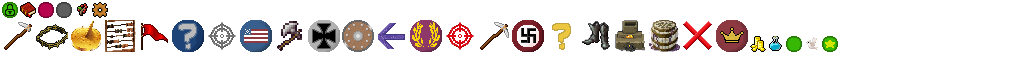
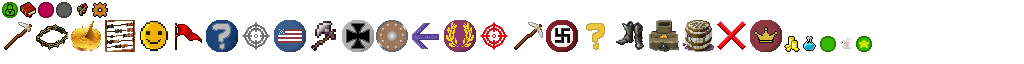
City: Implement morale

Changed region(s): [[0.125, 0.3125, 0.875, 0.8125]]

diff --git a/core/src/main/java/me/rhin/openciv/ui/game/CityStatsInfo.java b/core/src/main/java/me/rhin/openciv/ui/game/CityStatsInfo.java
@@ -19,11 +19,11 @@ public class CityStatsInfo extends Actor implements CityStatUpdateListener {
 	private City city;
 
 	private Sprite backgroundSprite;
-	private Sprite populationIcon, foodIcon, productionIcon, goldIcon, scienceIcon, heritageIcon;
+	private Sprite populationIcon, foodIcon, productionIcon, goldIcon, scienceIcon, heritageIcon, moraleIcon;
 	private CustomLabel populationDescLabel, populationGrowthDescLabel, foodDescLabel, productionDescLabel,
-			goldDescLabel, scienceDescLabel, heritageDescLabel, borderGrowthDescLabel;
+			goldDescLabel, scienceDescLabel, heritageDescLabel, borderGrowthDescLabel, moraleDescLabel;
 	private CustomLabel populationLabel, populationGrowthLabel, foodLabel, productionLabel, goldLabel, scienceLabel,
-			heritageLabel, borderGrowthLabel;
+			heritageLabel, borderGrowthLabel, moraleLabel;
 
 	public CityStatsInfo(City city, float x, float y, float width, float height) {
 		this.city = city;
@@ -121,7 +121,20 @@ public class CityStatsInfo extends Actor implements CityStatUpdateListener {
 
 		originX = 5;
 
-		originY -= heritageIcon.getHeight() + 3;
+		this.moraleIcon = TextureEnum.ICON_MORALE.sprite();
+		originY -= heritageIcon.getHeight();
+		moraleIcon.setSize(16, 16);
+		moraleIcon.setPosition(originX, originY);
+
+		this.moraleDescLabel = new CustomLabel("Morale:");
+		originX += moraleIcon.getWidth() + 5;
+		moraleDescLabel.setPosition(originX, originY + moraleDescLabel.getHeight() / 2);
+
+		this.moraleLabel = new CustomLabel("100%");
+
+		originX = 5;
+
+		originY -= moraleIcon.getHeight() + 3;
 		this.borderGrowthDescLabel = new CustomLabel("Expansion In:");
 		borderGrowthDescLabel.setPosition(originX, originY + borderGrowthDescLabel.getHeight() / 2);
 
@@ -142,6 +155,7 @@ public class CityStatsInfo extends Actor implements CityStatUpdateListener {
 		goldIcon.draw(batch);
 		scienceIcon.draw(batch);
 		heritageIcon.draw(batch);
+		moraleIcon.draw(batch);
 
 		populationDescLabel.draw(batch, parentAlpha);
 		populationGrowthDescLabel.draw(batch, parentAlpha);
@@ -150,6 +164,7 @@ public class CityStatsInfo extends Actor implements CityStatUpdateListener {
 		goldDescLabel.draw(batch, parentAlpha);
 		scienceDescLabel.draw(batch, parentAlpha);
 		heritageDescLabel.draw(batch, parentAlpha);
+		moraleDescLabel.draw(batch, parentAlpha);
 		borderGrowthDescLabel.draw(batch, parentAlpha);
 
 		populationLabel.draw(batch, parentAlpha);
@@ -159,6 +174,7 @@ public class CityStatsInfo extends Actor implements CityStatUpdateListener {
 		goldLabel.draw(batch, parentAlpha);
 		scienceLabel.draw(batch, parentAlpha);
 		heritageLabel.draw(batch, parentAlpha);
+		moraleLabel.draw(batch, parentAlpha);
 		borderGrowthLabel.draw(batch, parentAlpha);
 	}
 
@@ -206,6 +222,7 @@ public class CityStatsInfo extends Actor implements CityStatUpdateListener {
 		goldLabel.setText("+" + (int) city.getStatLine().getStatValue(Stat.GOLD_GAIN));
 		scienceLabel.setText("+" + city.getStatLine().getStatValue(Stat.SCIENCE_GAIN));
 		heritageLabel.setText("+" + (int) city.getStatLine().getStatValue(Stat.HERITAGE_GAIN));
+		moraleLabel.setText((int) city.getStatLine().getStatValue(Stat.MORALE) + "%");
 
 		int expansionTurns = (int) Math.ceil(((city.getStatLine().getStatValue(Stat.EXPANSION_REQUIREMENT)
 				- city.getStatLine().getStatValue(Stat.EXPANSION_PROGRESS))
@@ -278,7 +295,15 @@ public class CityStatsInfo extends Actor implements CityStatUpdateListener {
 		originX = 5;
 		heritageLabel.setPosition(getWidth() - (heritageLabel.getWidth() + 2),
 				originY + heritageDescLabel.getHeight() / 2);
-		originY -= heritageIcon.getHeight() + 3;
+		originY -= heritageIcon.getHeight();
+
+		// Morale information
+		moraleIcon.setPosition(originX, originY);
+		originX += moraleIcon.getWidth() + 5;
+		moraleDescLabel.setPosition(originX, originY + moraleDescLabel.getHeight() / 2);
+		originX = 5;
+		moraleLabel.setPosition(getWidth() - (moraleLabel.getWidth() + 2), originY + moraleDescLabel.getHeight() / 2);
+		originY -= moraleIcon.getHeight() + 3;
 
 		// Border growth information
 		borderGrowthDescLabel.setPosition(originX, originY + borderGrowthDescLabel.getHeight() / 2);

diff --git a/server/src/main/java/me/rhin/openciv/server/game/city/City.java b/server/src/main/java/me/rhin/openciv/server/game/city/City.java
@@ -81,6 +81,7 @@ public class City implements AttackableEntity, SpecialistContainer, NextTurnList
 
 		setPopulation(1);
 		statLine.setValue(Stat.EXPANSION_REQUIREMENT, 10 + 10 * (float) Math.pow(territory.size() - 6, 1.3));
+		statLine.setValue(Stat.MORALE, 100);
 		// Add our two specialists, one from pop, one city center
 		addSpecialist();
 		addSpecialist();
@@ -265,7 +266,7 @@ public class City implements AttackableEntity, SpecialistContainer, NextTurnList
 	public void onCombat() {
 		// TODO: Maybe increase health regen when out of combat?
 	}
-	
+
 	public int getMaxHealth() {
 		return 200;
 	}
@@ -583,18 +584,37 @@ public class City implements AttackableEntity, SpecialistContainer, NextTurnList
 	}
 
 	private void setPopulation(int amount) {
+		float popDiff = amount - statLine.getStatValue(Stat.POPULATION);
 		statLine.setValue(Stat.POPULATION, amount);
 		statLine.setValue(Stat.FOOD_SURPLUS, 0);
 
 		if (amount > 0) {
 			Server.getInstance().getEventManager().fireEvent(new CityGrowthEvent(this));
 			statLine.addValue(Stat.SCIENCE_GAIN, 0.5F);
+			subMorale(5 * popDiff);
 		} else {
 			Server.getInstance().getEventManager().fireEvent(new CityStarveEvent(this));
 			statLine.subValue(Stat.SCIENCE_GAIN, 0.5F);
+			addMorale(5 * popDiff);
 		}
 
 		playerOwner.updateOwnedStatlines(false);
+	}
+
+	public void addMorale(float morale) {
+		setMorale(statLine.getStatValue(Stat.MORALE) + morale);
+	}
+
+	public void subMorale(float morale) {
+		setMorale(statLine.getStatValue(Stat.MORALE) - morale);
+	}
+
+	public void setMorale(float morale) {
+		morale = MathUtils.clamp(morale, 0, 100);
+		statLine.setValue(Stat.MORALE, morale);
+
+		float moraleOffset = (morale >= 70 ? (morale - 70) / 100 : (70 - morale) / 100);
+		statLine.setModifier(Stat.PRODUCTION_GAIN, moraleOffset);
 	}
 
 	public boolean isCoastal() {

diff --git a/server/src/main/java/me/rhin/openciv/server/game/map/tile/TileType.java b/server/src/main/java/me/rhin/openciv/server/game/map/tile/TileType.java
@@ -348,6 +348,7 @@ public enum TileType implements Comparable<TileType> {
 			StatLine statLine = new StatLine();
 			statLine.addValue(Stat.GOLD_GAIN, 3);
 			statLine.addValue(Stat.PRODUCTION_GAIN, 1);
+			statLine.addValue(Stat.MORALE, 10);
 			return statLine;
 		}
 	},
@@ -356,6 +357,7 @@ public enum TileType implements Comparable<TileType> {
 		public StatLine getStatLine() {
 			StatLine statLine = new StatLine();
 			statLine.addValue(Stat.GOLD_GAIN, 4);
+			statLine.addValue(Stat.MORALE, 10);
 			return statLine;
 		}
 	},
@@ -373,6 +375,7 @@ public enum TileType implements Comparable<TileType> {
 			StatLine statLine = new StatLine();
 			statLine.addValue(Stat.PRODUCTION_GAIN, 3);
 			statLine.addValue(Stat.GOLD_GAIN, 2);
+			statLine.addValue(Stat.MORALE, 10);
 			return statLine;
 		}
 	},

diff --git a/server/src/main/java/me/rhin/openciv/server/game/map/tile/Tile.java b/server/src/main/java/me/rhin/openciv/server/game/map/tile/Tile.java
@@ -21,6 +21,7 @@ import me.rhin.openciv.server.game.unit.AttackableEntity;
 import me.rhin.openciv.server.game.unit.Unit;
 import me.rhin.openciv.server.game.unit.UnitItem.UnitType;
 import me.rhin.openciv.shared.packet.type.WorkTilePacket;
+import me.rhin.openciv.shared.stat.Stat;
 import me.rhin.openciv.shared.stat.StatLine;
 
 public class Tile {
@@ -570,8 +571,10 @@ public class Tile {
 			// Modify the tile here
 			tileImprovement.improveTile();
 
-			if (territory != null)
+			if (territory != null) {
+				territory.addMorale(getStatLine().getStatValue(Stat.MORALE));
 				territory.updateWorkedTiles();
+			}
 
 		} else {
 			// Continue to work the tile

diff --git a/shared/src/main/java/me/rhin/openciv/shared/stat/StatLine.java b/shared/src/main/java/me/rhin/openciv/shared/stat/StatLine.java
@@ -168,4 +168,15 @@ public class StatLine {
 
 		statValues.get(stat).addModifier(modifier);
 	}
+
+	public void setModifier(Stat stat, float modifier) {
+		if (!statValues.containsKey(stat))
+			statValues.put(stat, new StatValue(0));
+
+		statValues.get(stat).setModifier(modifier);
+	}
+
+	public boolean hasStatValue(Stat stat) {
+		return statValues.containsKey(stat);
+	}
 }

diff --git a/shared/src/main/java/me/rhin/openciv/shared/stat/Stat.java b/shared/src/main/java/me/rhin/openciv/shared/stat/Stat.java
@@ -17,7 +17,8 @@ public enum Stat {
 	POLICY_COST(StatType.POLICY_EXCLUSIVE),
 	COMBAT_STRENGTH,
 	TRADE_ROUTE_AMOUNT(StatType.PLAYER_EXCLUSIVE),
-	MAX_TRADE_ROUTES(StatType.PLAYER_EXCLUSIVE);
+	MAX_TRADE_ROUTES(StatType.PLAYER_EXCLUSIVE),
+	MORALE;
 
 	private Stat addedStat;
 	private StatType statType;

diff --git a/core/src/main/java/me/rhin/openciv/asset/TextureEnum.java b/core/src/main/java/me/rhin/openciv/asset/TextureEnum.java
@@ -110,6 +110,7 @@ public enum TextureEnum {
 	ICON_SMELTER,
 	ICON_MATHEMATICS,
 	ICON_BARREL,
+	ICON_MORALE,
 	UI_SELECTION,
 	UI_BUTTON,
 	UI_BUTTON_HOVERED,
